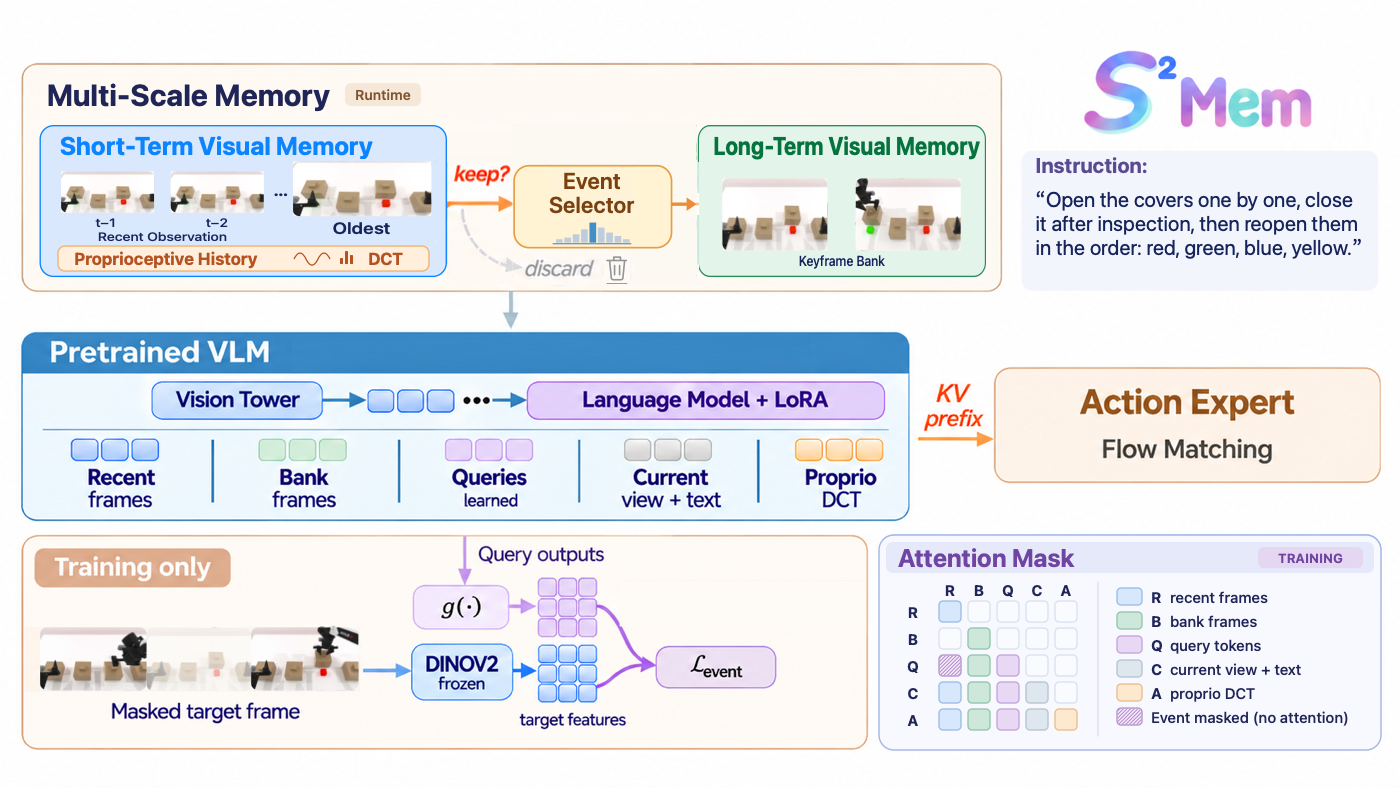
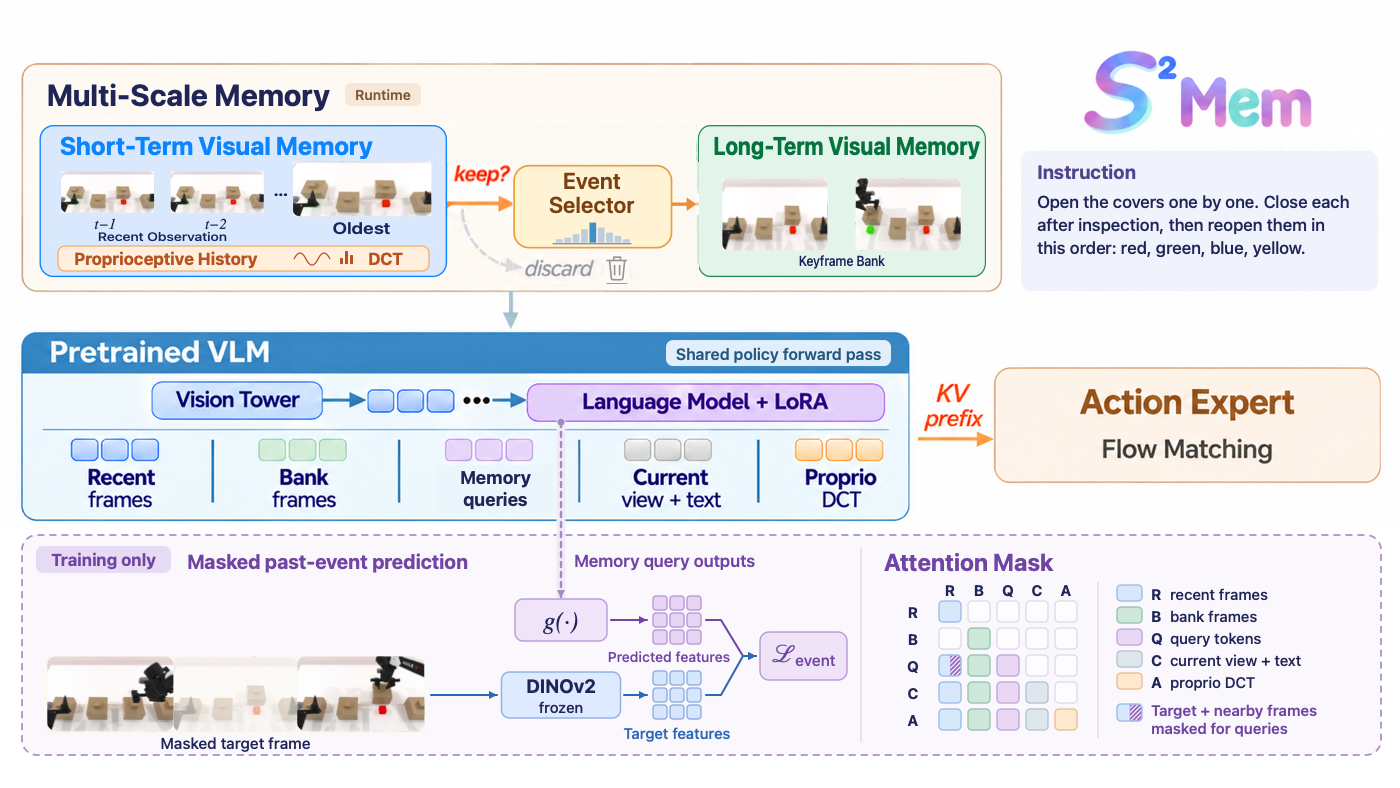
Update S²Mem architecture with masked past-event prediction

diff --git a/index.html b/index.html
@@ -21,7 +21,7 @@
 <section id="ongoing">
 <h2>Selected Papers</h2>
 <article class="paper-row featured-paper" id="s2mem">
-  <img class="paper-thumbnail" src="assets/s2mem-architecture.webp?v=multi-scale-memory" alt="S²Mem architecture showing short- and long-term visual memory, event selection, and the action expert" width="1400" height="788" loading="lazy">
+  <img class="paper-thumbnail" src="assets/s2mem-architecture.webp?v=masked-past-event" alt="S²Mem architecture showing short- and long-term visual memory, event selection, and the action expert" width="1400" height="788" loading="lazy">
   <div>
     <h3>S²Mem: From Sparse Cues to Decision-Relevant Memory in Vision-Language-Action Models</h3>
     <p class="details"><strong>Jiahang Bai</strong>, Leyang Wang, Zixuan Huang, Wenxuan Guo, Xutao Sun, Kaixi Ying, Xiaowen Qin, Ze Chen, Erjin Zhou, Yixing Gao</p>

diff --git a/zh.html b/zh.html
@@ -21,7 +21,7 @@
 <section id="ongoing">
 <h2>精选论文</h2>
 <article class="paper-row featured-paper" id="s2mem">
-  <img class="paper-thumbnail" src="assets/s2mem-architecture.webp?v=multi-scale-memory" alt="S²Mem 架构图，包含长短期视觉记忆、事件筛选和动作专家" width="1400" height="788" loading="lazy">
+  <img class="paper-thumbnail" src="assets/s2mem-architecture.webp?v=masked-past-event" alt="S²Mem 架构图，包含长短期视觉记忆、事件筛选和动作专家" width="1400" height="788" loading="lazy">
   <div>
     <h3>S²Mem: From Sparse Cues to Decision-Relevant Memory in Vision-Language-Action Models</h3>
     <p class="details"><strong>Jiahang Bai</strong>, Leyang Wang, Zixuan Huang, Wenxuan Guo, Xutao Sun, Kaixi Ying, Xiaowen Qin, Ze Chen, Erjin Zhou, Yixing Gao</p>
